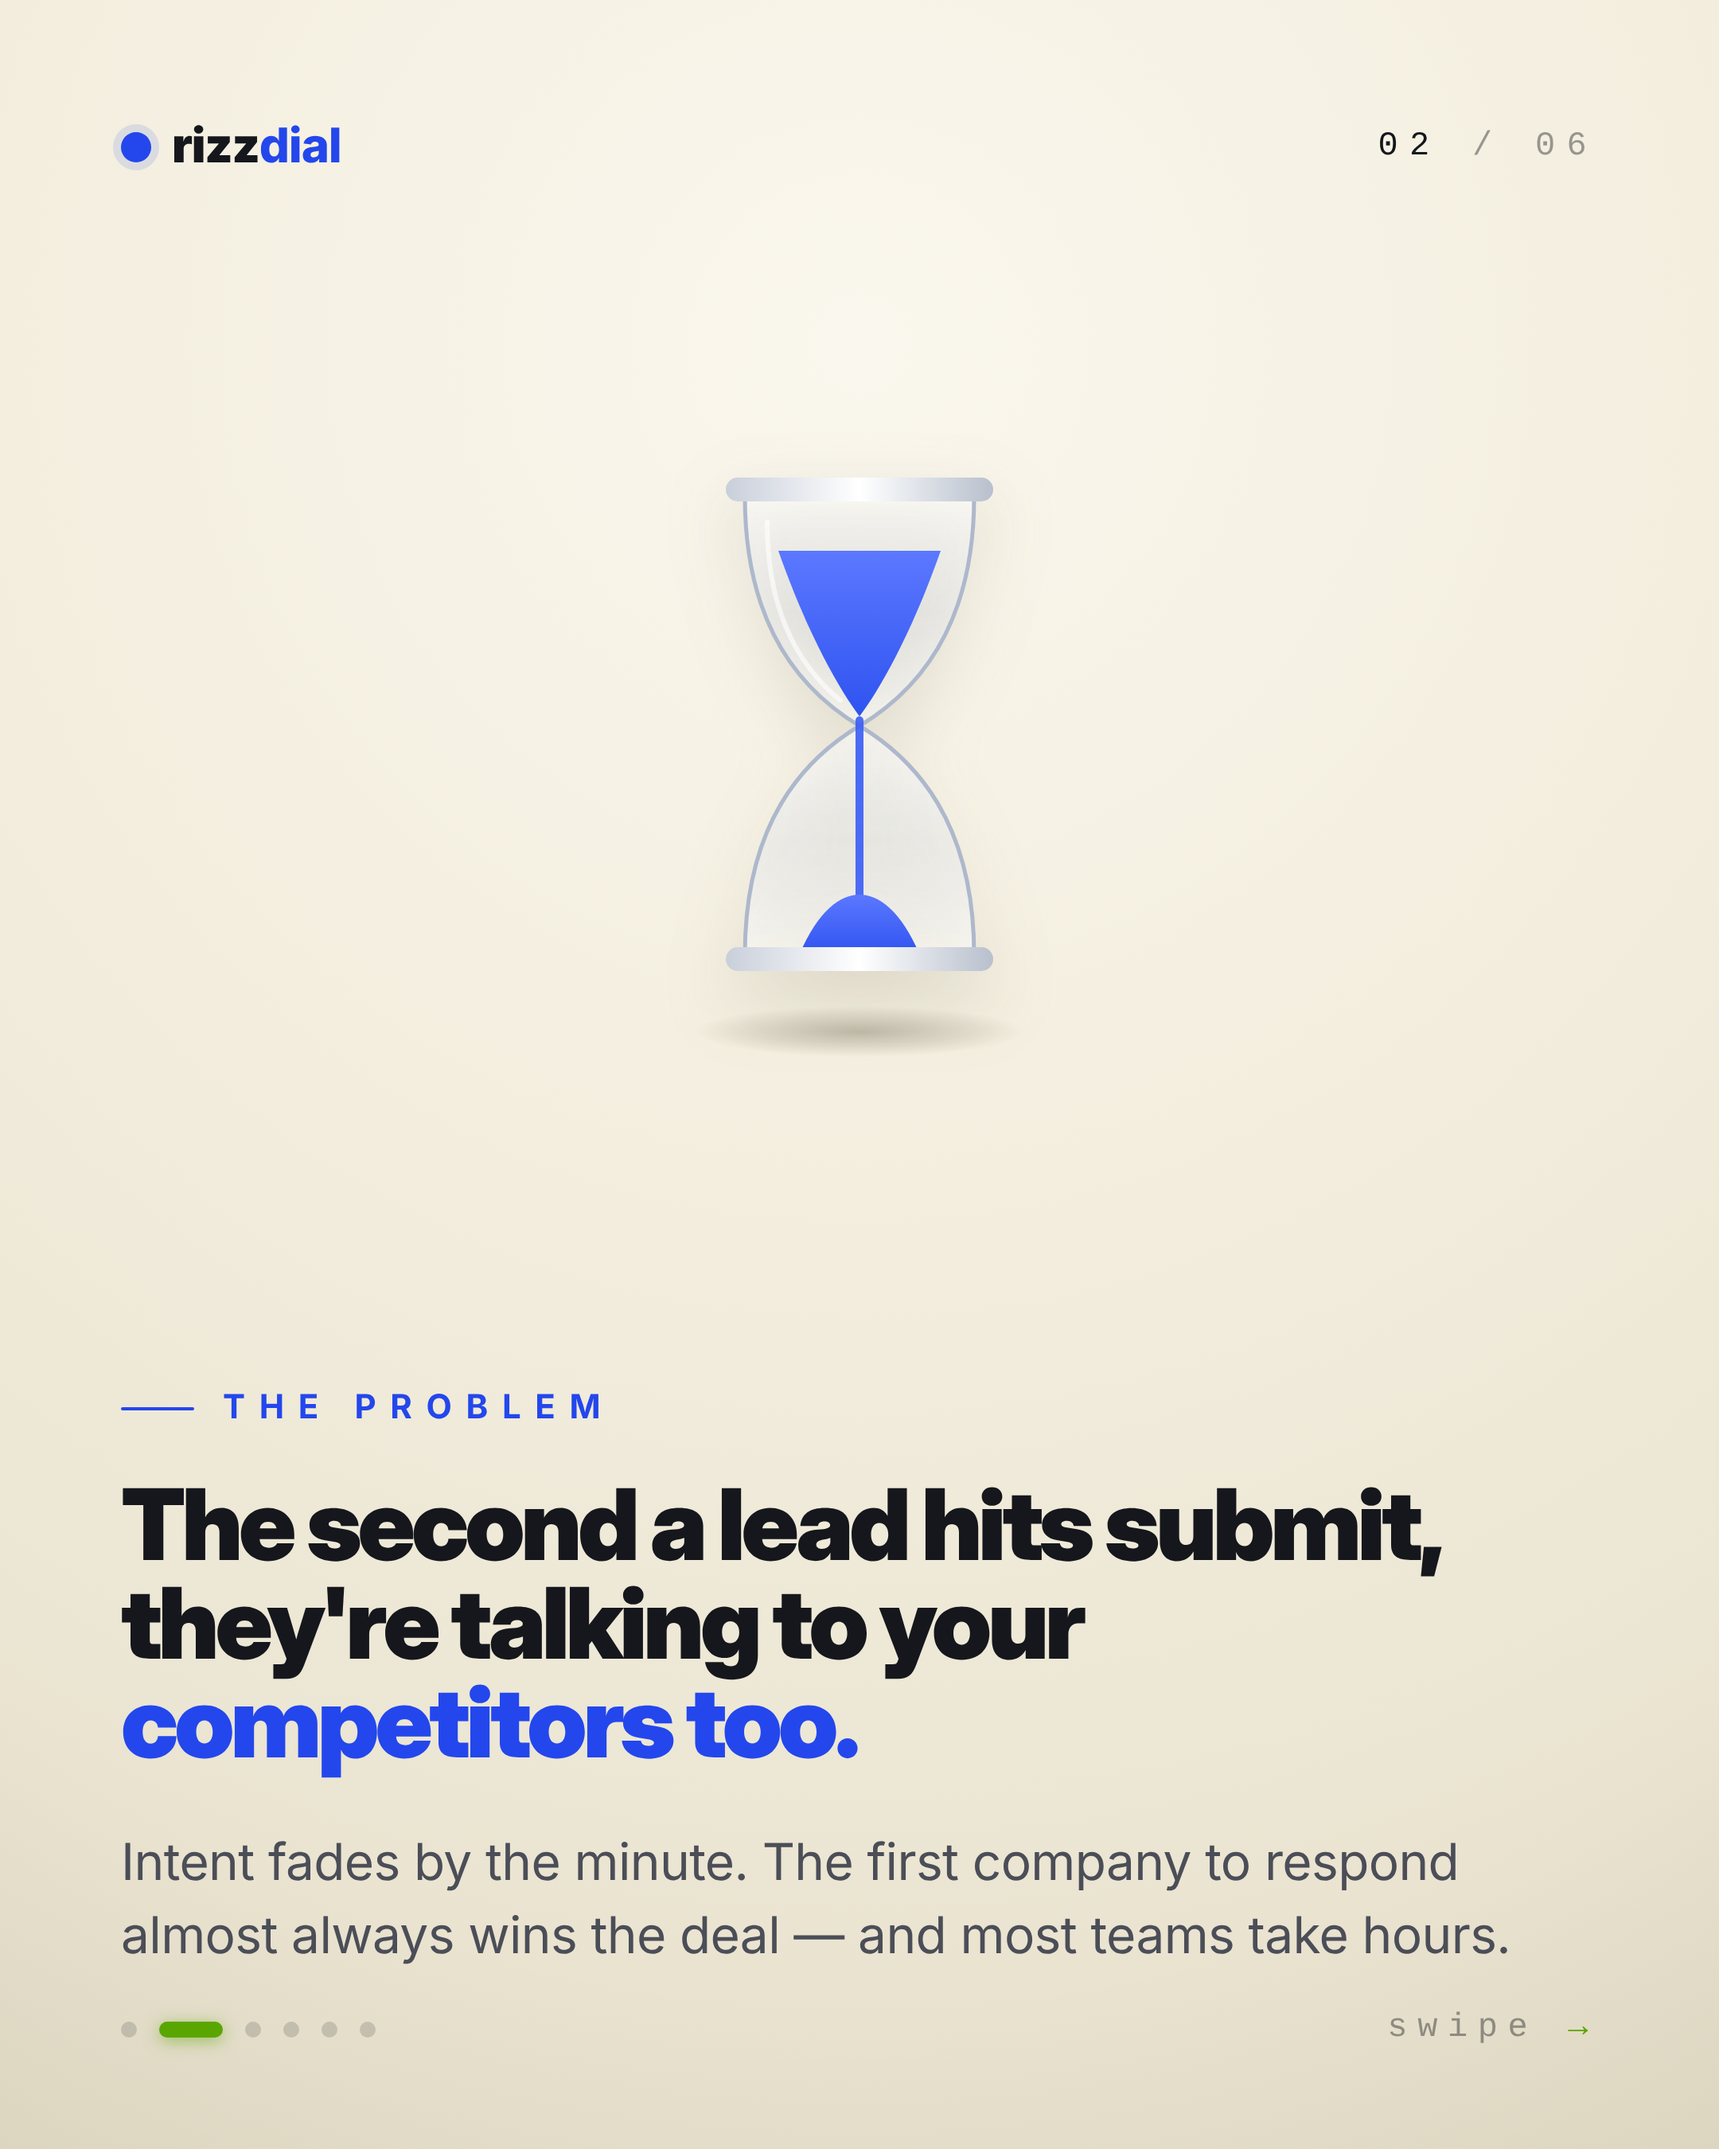
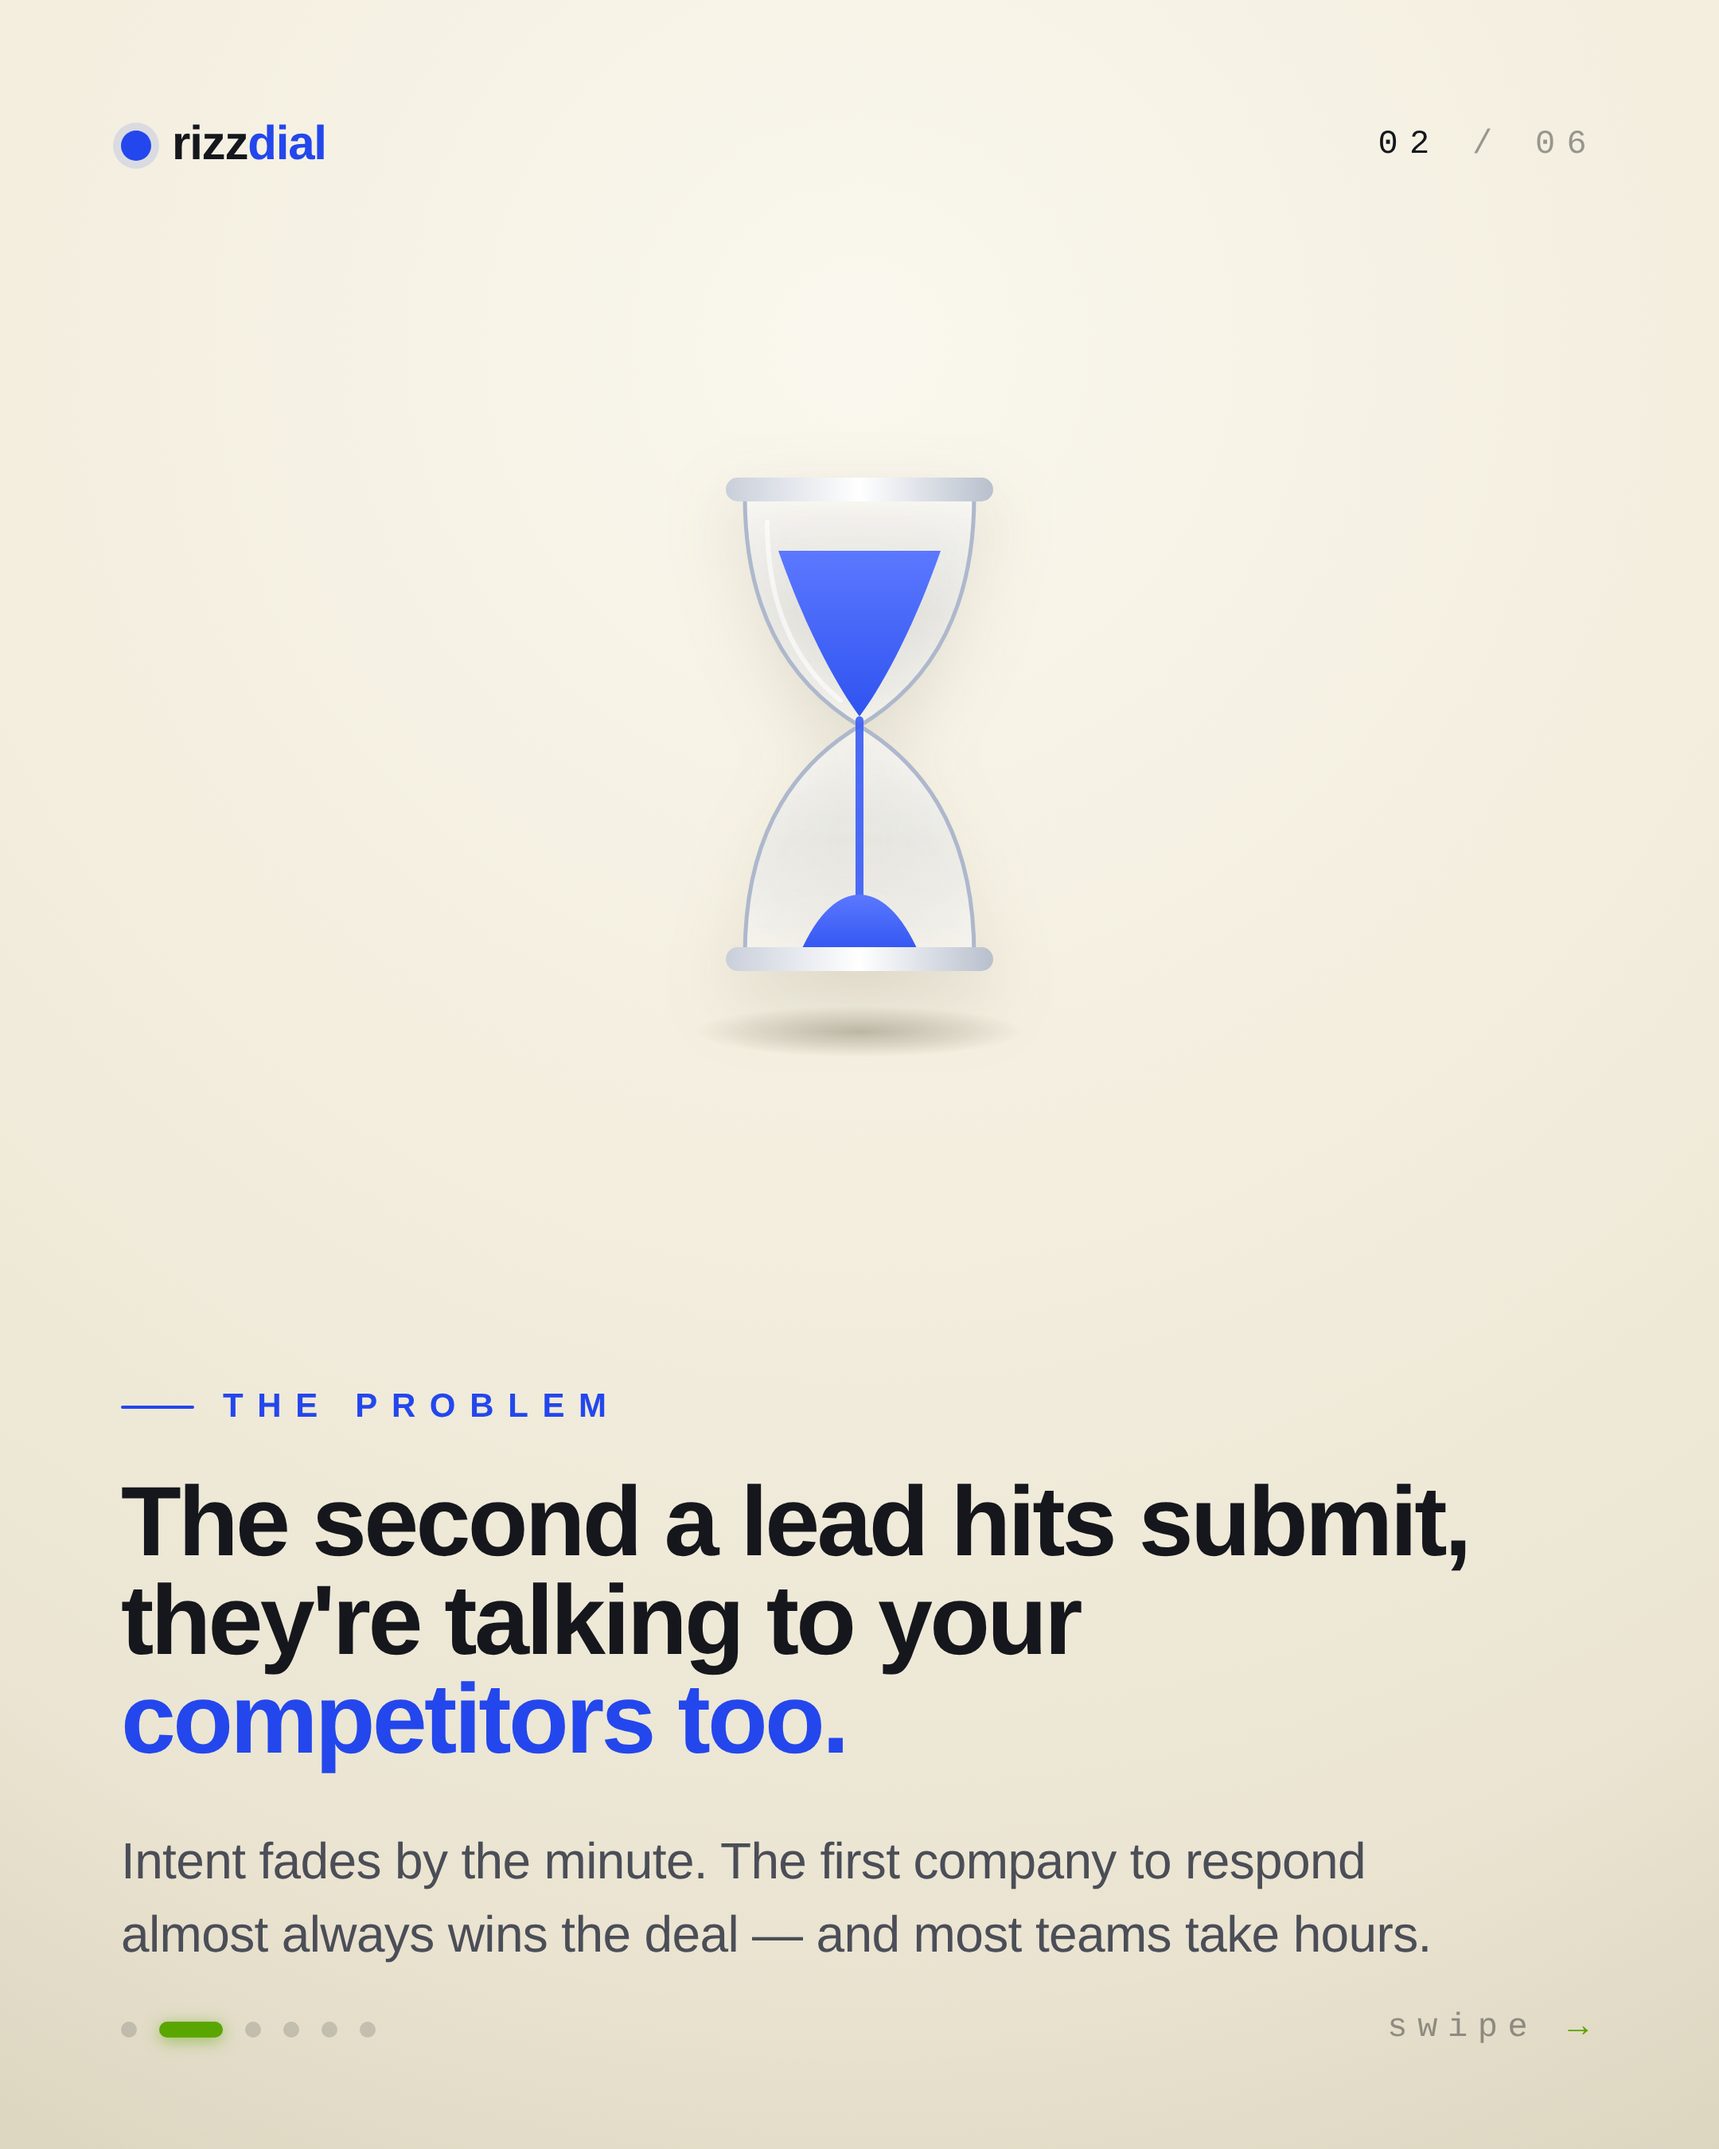
Switch headlines to Helvetica/Arial, fix slide 03 phone, align slide 06 to 60s
- Headlines and bold display text now use a Helvetica/Arial-style face
  (Liberation Sans Bold) across all six slides for the classic grotesque look
- Slide 03: re-extracted the real phone with cleaner keying and moved the
  Hello bubble to overlap the earpiece, hiding the area the bubble originally
  covered (no more blue notch on the handset)
- Slide 06: copy now reads '60 seconds' to match the 60s promise on slides
  03 and 05; stopwatch needle points to 60 with a full sweep ring

Changed region(s): [[0.062, 0.6533, 0.8685, 0.9333], [0.0931, 0.0622, 0.2171, 0.0933]]

diff --git a/design/lib.js b/design/lib.js
@@ -37,24 +37,28 @@ function drawStopwatch(svg, mark){
   }
   svg.appendChild(g);
   // numerals (skip the one we highlight)
-  [[15,'15'],[30,'30'],[45,'45'],[0,'60']].filter(([i])=>i!==mark).forEach(([i,t])=>{
+  [[15,'15'],[30,'30'],[45,'45'],[0,'60']].filter(([i])=>i!==(mark%60)).forEach(([i,t])=>{
     const a=(i/60)*2*Math.PI-Math.PI/2, rr=R-64;
-    const tx=E('text',{x:cx+Math.cos(a)*rr,y:cy+Math.sin(a)*rr,fill:'#54585f','font-size':18,'font-family':'Inter, sans-serif','font-weight':600,'text-anchor':'middle','dominant-baseline':'central'});
+    const tx=E('text',{x:cx+Math.cos(a)*rr,y:cy+Math.sin(a)*rr,fill:'#54585f','font-size':18,'font-family':'Liberation Sans, sans-serif','font-weight':700,'text-anchor':'middle','dominant-baseline':'central'});
     tx.textContent=t; svg.appendChild(tx);
   });
   // highlighted mark numeral + tick
   (function(){
     const a=(mark/60)*2*Math.PI-Math.PI/2;
     g.appendChild(E('line',{x1:cx+Math.cos(a)*(R-30),y1:cy+Math.sin(a)*(R-30),x2:cx+Math.cos(a)*(R-46),y2:cy+Math.sin(a)*(R-46),stroke:ACCENT,'stroke-width':4.6,'stroke-linecap':'round'}));
-    const rr=R-64, tx=E('text',{x:cx+Math.cos(a)*rr,y:cy+Math.sin(a)*rr,fill:ACCENT,'font-size':23,'font-family':'Inter, sans-serif','font-weight':800,'text-anchor':'middle','dominant-baseline':'central'});
+    const rr=R-64, tx=E('text',{x:cx+Math.cos(a)*rr,y:cy+Math.sin(a)*rr,fill:ACCENT,'font-size':23,'font-family':'Liberation Sans, sans-serif','font-weight':700,'text-anchor':'middle','dominant-baseline':'central'});
     tx.textContent=String(mark); svg.appendChild(tx);
   })();
-  // accent sweep 0 -> mark
+  // accent sweep 0 -> mark (full ring when mark is a whole minute)
   (function(){
-    const rr=R-30, a0=-Math.PI/2, a1=(mark/60)*2*Math.PI-Math.PI/2;
-    const big=(mark/60)>0.5?1:0;
-    svg.appendChild(E('path',{d:`M ${cx+Math.cos(a0)*rr} ${cy+Math.sin(a0)*rr} A ${rr} ${rr} 0 ${big} 1 ${cx+Math.cos(a1)*rr} ${cy+Math.sin(a1)*rr}`,
-      stroke:ACCENT,'stroke-width':6,fill:'none','stroke-linecap':'round'}));
+    const rr=R-30, a0=-Math.PI/2;
+    if(mark>=60){
+      svg.appendChild(E('circle',{cx,cy,r:rr,stroke:ACCENT,'stroke-width':6,fill:'none'}));
+    } else {
+      const a1=(mark/60)*2*Math.PI-Math.PI/2, big=(mark/60)>0.5?1:0;
+      svg.appendChild(E('path',{d:`M ${cx+Math.cos(a0)*rr} ${cy+Math.sin(a0)*rr} A ${rr} ${rr} 0 ${big} 1 ${cx+Math.cos(a1)*rr} ${cy+Math.sin(a1)*rr}`,
+        stroke:ACCENT,'stroke-width':6,fill:'none','stroke-linecap':'round'}));
+    }
     svg.appendChild(E('circle',{cx:cx+Math.cos(a0)*rr,cy:cy+Math.sin(a0)*rr,r:4.5,fill:ACCENT}));
   })();
   // hand to mark

diff --git a/design/slide-03.html b/design/slide-03.html
@@ -5,11 +5,11 @@
   .phone{position:absolute;top:336px;left:74px;width:912px;z-index:2;
     filter:drop-shadow(0 30px 42px rgba(8,16,60,.50));}
   .burst{position:absolute;top:352px;left:74px;width:120px;height:120px;z-index:2;}
-  .bubble{position:absolute;top:560px;left:120px;z-index:3;
-    background:#2f63ff;color:#fff;font-family:'Inter Display','Inter',sans-serif;font-weight:800;
+  .bubble{position:absolute;top:520px;left:104px;z-index:3;
+    background:#2f63ff;color:#fff;font-family:'Liberation Sans',Arial,sans-serif;font-weight:700;
     font-size:44px;letter-spacing:-.02em;padding:16px 30px 20px;border-radius:22px;
-    box-shadow:0 16px 30px rgba(8,16,60,.4);}
-  .bubble::after{content:"";position:absolute;left:34px;bottom:-18px;
+    box-shadow:0 18px 32px rgba(8,16,60,.42);}
+  .bubble::after{content:"";position:absolute;left:36px;bottom:-18px;
     border-left:0 solid transparent;border-right:30px solid transparent;border-top:24px solid #2f63ff;}
   .copy{position:absolute;left:76px;right:76px;top:872px;z-index:3;}
   .headline{font-size:118px;line-height:.96;}

diff --git a/design/common.css b/design/common.css
@@ -4,7 +4,7 @@ html,body{background:#0c1330;}
 
 .canvas{
   position:relative;width:1080px;height:1350px;overflow:hidden;
-  font-family:'Inter','Liberation Sans',sans-serif;-webkit-font-smoothing:antialiased;
+  font-family:'Liberation Sans',Arial,sans-serif;-webkit-font-smoothing:antialiased;
   --mono:'Liberation Mono','DejaVu Sans Mono',monospace;
 }
 /* ---- themes ---- */
@@ -50,8 +50,8 @@ html,body{background:#0c1330;}
 .eyebrow::before{content:"";width:46px;height:2px;background:var(--accent);display:inline-block;border-radius:2px;}
 
 .headline{
-  font-family:'Inter Display','Inter',sans-serif;font-weight:900;
-  line-height:.92;letter-spacing:-.04em;color:var(--ink);}
+  font-family:'Liberation Sans',Arial,sans-serif;font-weight:700;
+  line-height:.96;letter-spacing:-.03em;color:var(--ink);}
 .headline .hi{color:var(--hi);}
 
 .sub{font-size:32px;line-height:1.44;font-weight:400;color:var(--sub);letter-spacing:-.01em;}

diff --git a/design/slide-01.html b/design/slide-01.html
@@ -22,7 +22,7 @@
     background:
       radial-gradient(120% 90% at 72% 22%, #3a5cff 0%, #2347ec 34%, #1a36c4 62%, #122a9e 100%),
       #122a9e;
-    font-family:'Inter','Liberation Sans',sans-serif;
+    font-family:'Liberation Sans',Arial,sans-serif;
     -webkit-font-smoothing:antialiased;
   }
   /* soft vignette for depth */
@@ -62,8 +62,8 @@
   .eyebrow::before{content:"";width:46px;height:2px;background:var(--accent);display:inline-block;border-radius:2px;}
 
   .headline{
-    font-family:'Inter Display','Inter',sans-serif;font-weight:900;
-    font-size:166px;line-height:.9;letter-spacing:-.045em;color:#fff;
+    font-family:'Liberation Sans',Arial,sans-serif;font-weight:700;
+    font-size:166px;line-height:.92;letter-spacing:-.03em;color:#fff;
   }
   .headline .l2{position:relative;display:inline-block;}
   .key{position:relative;display:inline-block;color:#fff;}

diff --git a/design/slide-05.html b/design/slide-05.html
@@ -7,7 +7,7 @@
   .stats{position:absolute;left:76px;right:76px;top:486px;z-index:3;}
   .stat{display:flex;align-items:center;gap:48px;padding:38px 4px;border-top:1px solid var(--line);}
   .stat:last-child{border-bottom:1px solid var(--line);}
-  .num{font-family:'Inter Display','Inter',sans-serif;font-weight:900;font-size:108px;line-height:1;
+  .num{font-family:'Liberation Sans',Arial,sans-serif;font-weight:700;font-size:108px;line-height:1;
     letter-spacing:-.045em;color:#fff;width:300px;position:relative;display:flex;align-items:baseline;}
   .num .lt{font-size:64px;font-weight:800;margin-right:2px;opacity:.9;}
   .num small{font-size:46px;font-weight:800;margin-left:2px;}

diff --git a/design/slide-06.html b/design/slide-06.html
@@ -28,7 +28,7 @@
 
       <div class="copy">
         <div class="eyebrow">Your Move</div>
-        <h1 class="headline">Answer every lead<br/>in <span class="hi">10 seconds.</span></h1>
+        <h1 class="headline">Answer every lead<br/>in <span class="hi">60 seconds.</span></h1>
         <div class="cta"><b>Book a demo</b>&nbsp;<span style="color:#9aa0aa">&rarr;</span>&nbsp;<span style="color:#9fb4ff">rizzdial.com</span></div>
       </div>
 
@@ -38,5 +38,5 @@
     </div>
   </div>
 <script src="lib.js"></script>
-<script>drawStopwatch(document.querySelector('.hero svg'), 10);</script>
+<script>drawStopwatch(document.querySelector('.hero svg'), 60);</script>
 </body></html>
